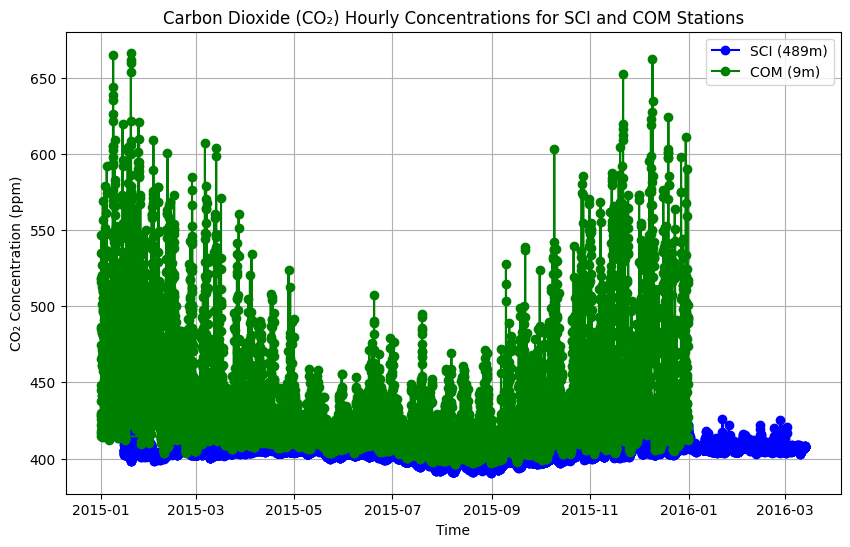
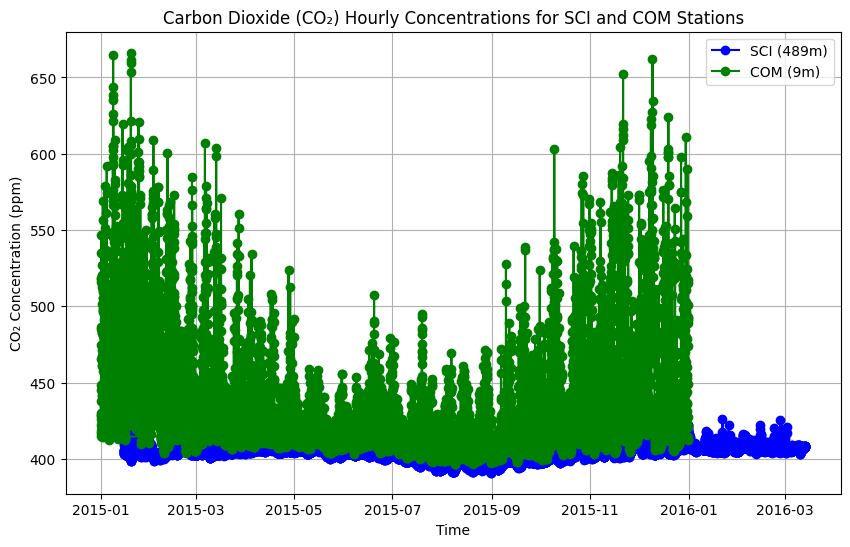
Deploy preview for PR 179 🛫

Changed region(s): [[0.0918, 0.1243, 0.8259, 0.1554], [0.8259, 0.6837, 0.9788, 0.7148], [0.0306, 0.6837, 0.0918, 0.7148]]

diff --git a/pr-preview/pr-179/user_data_notebooks/lam-testbed-ghg-concentrations_User_Notebook.html b/pr-preview/pr-179/user_data_notebooks/lam-testbed-ghg-concentrations_User_Notebook.html
@@ -971,7 +971,7 @@ pre > code.sourceCode > span > a:first-child::before { text-decoration: underlin
 <h2 class="anchored" data-anchor-id="install-the-required-libraries">Install the Required Libraries</h2>
 <p>Required libraries are pre-installed on the US GHG Center Hub. If you need to run this notebook elsewhere, please install them with this line in a code cell:</p>
 <p>%pip install requests folium rasterstats pystac_client pandas matplotlib –quiet</p>
-<div id="cell-8" class="cell" data-execution_count="1">
+<div id="cell-8" class="cell" data-execution_count="5">
 <div class="code-copy-outer-scaffold"><div class="sourceCode cell-code" id="cb1"><pre class="sourceCode python code-with-copy"><code class="sourceCode python"><span id="cb1-1"><a href="#cb1-1" aria-hidden="true" tabindex="-1"></a><span class="im">import</span> requests</span>
 <span id="cb1-2"><a href="#cb1-2" aria-hidden="true" tabindex="-1"></a><span class="im">import</span> pandas <span class="im">as</span> pd</span>
 <span id="cb1-3"><a href="#cb1-3" aria-hidden="true" tabindex="-1"></a><span class="im">import</span> matplotlib.pyplot <span class="im">as</span> plt</span>
@@ -981,10 +981,10 @@ pre > code.sourceCode > span > a:first-child::before { text-decoration: underlin
 <section id="querying-the-feature-vector-api" class="level2">
 <h2 class="anchored" data-anchor-id="querying-the-feature-vector-api">Querying the Feature Vector API</h2>
 <p>First, we are going to fetch the data using the US GHG Center Feature Vector Application Programming Interface (API). The provided endpoints refer to a location within the API that execute a request on a data files nesting on the server.</p>
-<div id="cell-10" class="cell" data-execution_count="2">
+<div id="cell-10" class="cell" data-execution_count="6">
 <div class="code-copy-outer-scaffold"><div class="sourceCode cell-code" id="cb2"><pre class="sourceCode python code-with-copy"><code class="sourceCode python"><span id="cb2-1"><a href="#cb2-1" aria-hidden="true" tabindex="-1"></a>FEATURE_API_URL<span class="op">=</span><span class="st">"https://earth.gov/ghgcenter/api/features"</span></span></code></pre></div><button title="Copy to Clipboard" class="code-copy-button"><i class="bi"></i></button></div>
 </div>
-<div id="cell-11" class="cell" data-execution_count="3">
+<div id="cell-11" class="cell" data-execution_count="7">
 <div class="code-copy-outer-scaffold"><div class="sourceCode cell-code" id="cb3"><pre class="sourceCode python code-with-copy"><code class="sourceCode python"><span id="cb3-1"><a href="#cb3-1" aria-hidden="true" tabindex="-1"></a><span class="co"># Function to fetch CSV data for a station with a limit parameter</span></span>
 <span id="cb3-2"><a href="#cb3-2" aria-hidden="true" tabindex="-1"></a><span class="kw">def</span> get_station_data_csv(station_code, gas_type, frequency, elevation_m, limit<span class="op">=</span><span class="dv">100000</span>):</span>
 <span id="cb3-3"><a href="#cb3-3" aria-hidden="true" tabindex="-1"></a>    <span class="co"># Use the ?f=csv and limit query to get more rows</span></span>
@@ -1017,7 +1017,7 @@ pre > code.sourceCode > span > a:first-child::before { text-decoration: underlin
 <section id="time-series-analysis" class="level2">
 <h2 class="anchored" data-anchor-id="time-series-analysis">Time-Series Analysis</h2>
 <p>In the next cell, we’ll plot hourly CO₂ concentrations for two LAM stations. The “SCI” station is on San Clemente Island, Los Angeles, CA, and the “COM” station is in Compton, Los Angeles, CA.</p>
-<div id="cell-13" class="cell">
+<div id="cell-13" class="cell" data-execution_count="8">
 <div class="code-copy-outer-scaffold"><div class="sourceCode cell-code" id="cb4"><pre class="sourceCode python code-with-copy"><code class="sourceCode python"><span id="cb4-1"><a href="#cb4-1" aria-hidden="true" tabindex="-1"></a><span class="co"># Get station name and elevation from metdata dataframe</span></span>
 <span id="cb4-2"><a href="#cb4-2" aria-hidden="true" tabindex="-1"></a><span class="co"># Fetch data for SCI (elevation 489) and COM (elevation 9), using limit=10000</span></span>
 <span id="cb4-3"><a href="#cb4-3" aria-hidden="true" tabindex="-1"></a><span class="co"># ch4/co2 to select the ghg </span></span>

diff --git a/pr-preview/pr-179/user_data_notebooks/nec-testbed-ghg-concentrations_User_Notebook.html b/pr-preview/pr-179/user_data_notebooks/nec-testbed-ghg-concentrations_User_Notebook.html
@@ -971,7 +971,7 @@ pre > code.sourceCode > span > a:first-child::before { text-decoration: underlin
 <h2 class="anchored" data-anchor-id="install-the-required-libraries">Install the Required Libraries</h2>
 <p>Required libraries are pre-installed on the US GHG Center Hub. If you need to run this notebook elsewhere, please install them with this line in a code cell:</p>
 <p>%pip install requests folium rasterstats pystac_client pandas matplotlib –quiet</p>
-<div id="cell-8" class="cell" data-execution_count="1">
+<div id="cell-8" class="cell" data-execution_count="5">
 <div class="code-copy-outer-scaffold"><div class="sourceCode cell-code" id="cb1"><pre class="sourceCode python code-with-copy"><code class="sourceCode python"><span id="cb1-1"><a href="#cb1-1" aria-hidden="true" tabindex="-1"></a><span class="im">import</span> requests</span>
 <span id="cb1-2"><a href="#cb1-2" aria-hidden="true" tabindex="-1"></a><span class="im">import</span> pandas <span class="im">as</span> pd</span>
 <span id="cb1-3"><a href="#cb1-3" aria-hidden="true" tabindex="-1"></a><span class="im">import</span> matplotlib.pyplot <span class="im">as</span> plt</span>
@@ -981,10 +981,10 @@ pre > code.sourceCode > span > a:first-child::before { text-decoration: underlin
 <section id="querying-the-feature-vector-api" class="level2">
 <h2 class="anchored" data-anchor-id="querying-the-feature-vector-api">Querying the Feature Vector API</h2>
 <p>First, we are going to fetch the data using the US GHG Center Feature Vector Application Programming Interface (API). The provided endpoints refer to a location within the API that execute a request on data files nesting on the server.</p>
-<div id="cell-10" class="cell" data-execution_count="2">
+<div id="cell-10" class="cell" data-execution_count="6">
 <div class="code-copy-outer-scaffold"><div class="sourceCode cell-code" id="cb2"><pre class="sourceCode python code-with-copy"><code class="sourceCode python"><span id="cb2-1"><a href="#cb2-1" aria-hidden="true" tabindex="-1"></a>FEATURE_API_URL<span class="op">=</span><span class="st">"https://earth.gov/ghgcenter/api/features"</span></span></code></pre></div><button title="Copy to Clipboard" class="code-copy-button"><i class="bi"></i></button></div>
 </div>
-<div id="cell-11" class="cell" data-execution_count="3">
+<div id="cell-11" class="cell" data-execution_count="7">
 <div class="code-copy-outer-scaffold"><div class="sourceCode cell-code" id="cb3"><pre class="sourceCode python code-with-copy"><code class="sourceCode python"><span id="cb3-1"><a href="#cb3-1" aria-hidden="true" tabindex="-1"></a><span class="co"># Function to fetch CSV data for a station with a limit parameter</span></span>
 <span id="cb3-2"><a href="#cb3-2" aria-hidden="true" tabindex="-1"></a><span class="kw">def</span> get_station_data_csv(station_code, gas_type, frequency, elevation_m, limit<span class="op">=</span><span class="dv">10000</span>):</span>
 <span id="cb3-3"><a href="#cb3-3" aria-hidden="true" tabindex="-1"></a>    <span class="co"># Use the ?f=csv and limit query to get more rows</span></span>
@@ -1017,7 +1017,7 @@ pre > code.sourceCode > span > a:first-child::before { text-decoration: underlin
 <section id="time-series-analysis" class="level2">
 <h2 class="anchored" data-anchor-id="time-series-analysis">Time-Series Analysis</h2>
 <p>In the next cell, we’ll plot hourly CH₄ concentrations for two NEC stations. The “UNY” station is in Utica, NY, and the “TMD” station is in Thurmont, MD.</p>
-<div id="cell-13" class="cell" data-execution_count="4">
+<div id="cell-13" class="cell" data-execution_count="8">
 <div class="code-copy-outer-scaffold"><div class="sourceCode cell-code" id="cb4"><pre class="sourceCode python code-with-copy"><code class="sourceCode python"><span id="cb4-1"><a href="#cb4-1" aria-hidden="true" tabindex="-1"></a><span class="co"># Get station name and elevation from metdata dataframe</span></span>
 <span id="cb4-2"><a href="#cb4-2" aria-hidden="true" tabindex="-1"></a><span class="co"># Fetch data for UNY (elevation 230) and TMD (elevation 489), using limit=10000</span></span>
 <span id="cb4-3"><a href="#cb4-3" aria-hidden="true" tabindex="-1"></a><span class="co"># ch4/co2 to select the ghg </span></span>

diff --git a/pr-preview/pr-179/user_data_notebooks/influx-testbed-ghg-concentrations_User_Notebook.html b/pr-preview/pr-179/user_data_notebooks/influx-testbed-ghg-concentrations_User_Notebook.html
@@ -976,7 +976,7 @@ pre > code.sourceCode > span > a:first-child::before { text-decoration: underlin
 <p>%pip install requests folium rasterstats pystac_client pandas matplotlib –quiet</p>
 <section id="importing-required-libraries" class="level3">
 <h3 class="anchored" data-anchor-id="importing-required-libraries">Importing required libraries</h3>
-<div id="cell-9" class="cell" data-execution_count="13">
+<div id="cell-9" class="cell" data-execution_count="17">
 <div class="code-copy-outer-scaffold"><div class="sourceCode cell-code" id="cb1"><pre class="sourceCode python code-with-copy"><code class="sourceCode python"><span id="cb1-1"><a href="#cb1-1" aria-hidden="true" tabindex="-1"></a><span class="im">import</span> requests</span>
 <span id="cb1-2"><a href="#cb1-2" aria-hidden="true" tabindex="-1"></a><span class="im">import</span> pandas <span class="im">as</span> pd</span>
 <span id="cb1-3"><a href="#cb1-3" aria-hidden="true" tabindex="-1"></a><span class="im">import</span> matplotlib.pyplot <span class="im">as</span> plt</span>
@@ -987,10 +987,10 @@ pre > code.sourceCode > span > a:first-child::before { text-decoration: underlin
 <section id="querying-the-feature-vector-api" class="level2">
 <h2 class="anchored" data-anchor-id="querying-the-feature-vector-api">Querying the Feature Vector API</h2>
 <p>First, we are going to fetch the data using the US GHG Center Feature Vector Application Programming Interface (API). The provided endpoints refer to a location within the API that execute a request on data files nesting on the server.</p>
-<div id="cell-11" class="cell" data-execution_count="14">
+<div id="cell-11" class="cell" data-execution_count="18">
 <div class="code-copy-outer-scaffold"><div class="sourceCode cell-code" id="cb2"><pre class="sourceCode python code-with-copy"><code class="sourceCode python"><span id="cb2-1"><a href="#cb2-1" aria-hidden="true" tabindex="-1"></a>FEATURE_API_URL<span class="op">=</span><span class="st">"https://earth.gov/ghgcenter/api/features"</span></span></code></pre></div><button title="Copy to Clipboard" class="code-copy-button"><i class="bi"></i></button></div>
 </div>
-<div id="cell-12" class="cell" data-execution_count="15">
+<div id="cell-12" class="cell" data-execution_count="19">
 <div class="code-copy-outer-scaffold"><div class="sourceCode cell-code" id="cb3"><pre class="sourceCode python code-with-copy"><code class="sourceCode python"><span id="cb3-1"><a href="#cb3-1" aria-hidden="true" tabindex="-1"></a><span class="co"># Function to fetch CSV data for a station with a limit parameter</span></span>
 <span id="cb3-2"><a href="#cb3-2" aria-hidden="true" tabindex="-1"></a><span class="kw">def</span> get_station_data_csv(station_code, gas_type, frequency, elevation_m, limit<span class="op">=</span><span class="dv">100000</span>):</span>
 <span id="cb3-3"><a href="#cb3-3" aria-hidden="true" tabindex="-1"></a>    <span class="co"># Use the ?f=csv and limit query to get more rows</span></span>
@@ -1022,7 +1022,7 @@ pre > code.sourceCode > span > a:first-child::before { text-decoration: underlin
 <section id="time-series-analysis" class="level2">
 <h2 class="anchored" data-anchor-id="time-series-analysis">Time-Series Analysis</h2>
 <p>In the next cell, we’ll plot hourly CH₄ concentrations for two INFLUX sites. “site01” is the “Background Southwest1” station in Mooresville, IN and “site09” is the “Background East” station in Maxwell, IN.</p>
-<div id="cell-14" class="cell" data-execution_count="16">
+<div id="cell-14" class="cell" data-execution_count="20">
 <div class="code-copy-outer-scaffold"><div class="sourceCode cell-code" id="cb4"><pre class="sourceCode python code-with-copy"><code class="sourceCode python"><span id="cb4-1"><a href="#cb4-1" aria-hidden="true" tabindex="-1"></a><span class="co"># Get station name and elevation from metadata dataframe</span></span>
 <span id="cb4-2"><a href="#cb4-2" aria-hidden="true" tabindex="-1"></a><span class="co"># Fetch data for site01 (elevation 256) and site09 (elevation 277), using limit=10000</span></span>
 <span id="cb4-3"><a href="#cb4-3" aria-hidden="true" tabindex="-1"></a><span class="co"># ch4/co2 to select the ghg </span></span>

diff --git a/pr-preview/pr-179/utility.html b/pr-preview/pr-179/utility.html
@@ -894,7 +894,7 @@ pre > code.sourceCode > span > a:first-child::before { text-decoration: underlin
 <section id="utilities" class="level2">
 <h2 class="anchored" data-anchor-id="utilities">Utilities</h2>
 <p>Section contains multiple utility functions</p>
-<div id="3a2c3439" class="cell" data-execution_count="1">
+<div id="654fab1c" class="cell" data-execution_count="1">
 <div class="code-copy-outer-scaffold"><div class="sourceCode cell-code" id="cb1"><pre class="sourceCode python code-with-copy"><code class="sourceCode python"><span id="cb1-1"><a href="#cb1-1" aria-hidden="true" tabindex="-1"></a><span class="im">import</span> requests</span>
 <span id="cb1-2"><a href="#cb1-2" aria-hidden="true" tabindex="-1"></a><span class="im">import</span> pandas <span class="im">as</span> pd</span>
 <span id="cb1-3"><a href="#cb1-3" aria-hidden="true" tabindex="-1"></a><span class="im">import</span> datetime</span>
